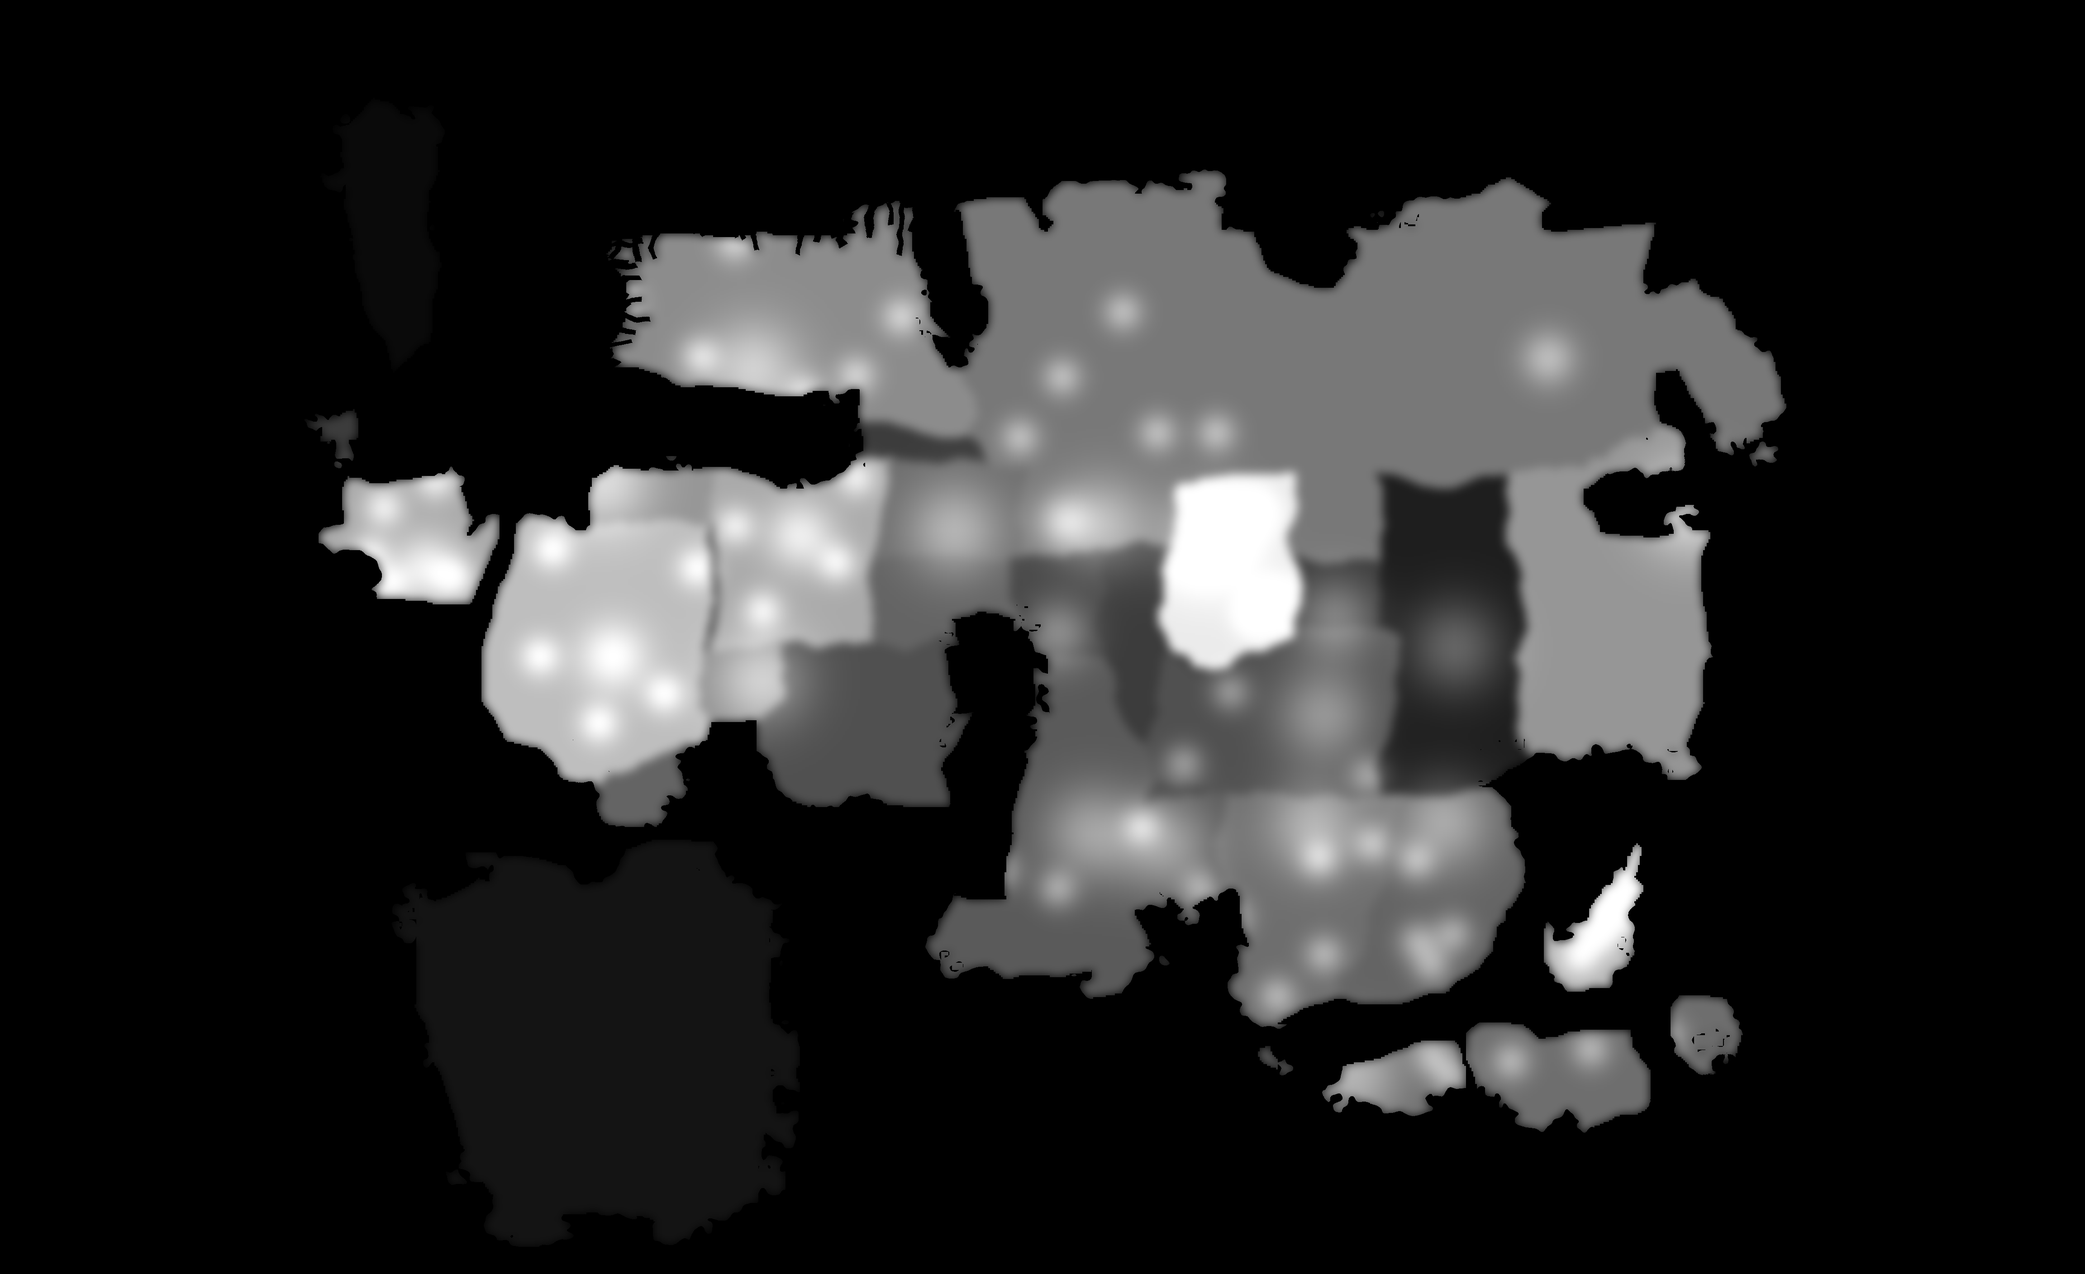
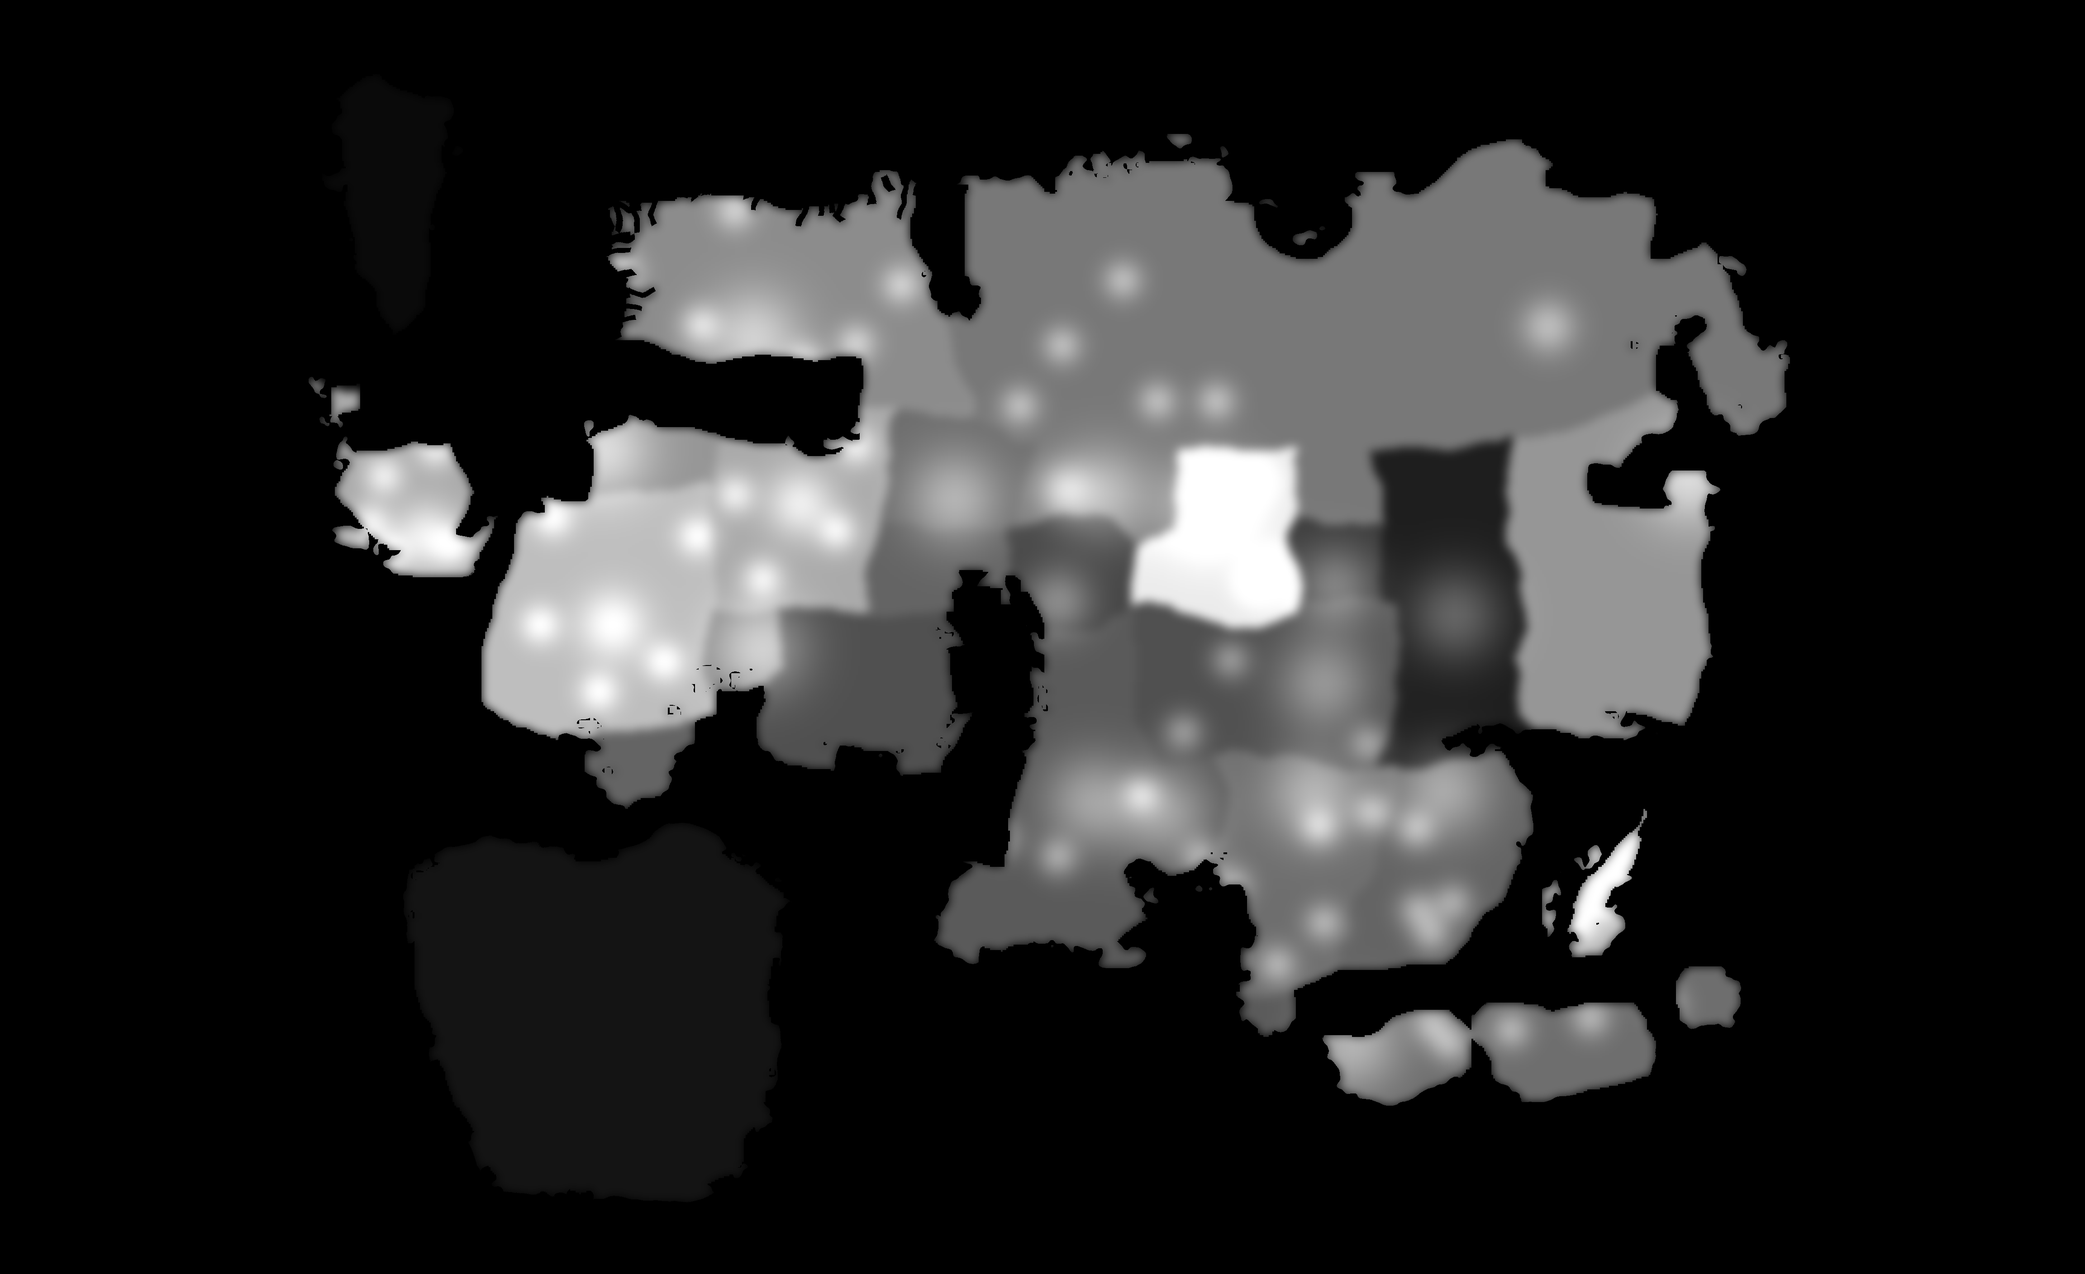
tools: widen straits between Figariya, Travinnaya islands and mainland; shift map up for bottom ocean margin; thicken river lines; rename mod to Ktits; add tab quick guide

Changed region(s): [[0.1562, 0.0938, 0.875, 0.9062], [0.7188, 0.2188, 0.75, 0.3125], [0.4688, 0.5312, 0.5, 0.5625]]

diff --git a/tools/export_rp_inputs.py b/tools/export_rp_inputs.py
@@ -1,4 +1,4 @@
-"""Картинки для загрузки в RandomParadox (Ktits-Mod 0.1.0), по этапам.
+"""Картинки для загрузки в RandomParadox (Ktits 0.1.0), по этапам.
 
 Запуск из корня репозитория: python tools/export_rp_inputs.py [этап]
 Выход: no_commit/temp/rp_input/stage_NN/*.png (4352x2816, RGB).
@@ -15,7 +15,7 @@ OUT = os.path.join(ROOT, "no_commit", "temp", "rp_input")
 W, H = 4608, 2816                                   # холст с полем океана вокруг суши
 LAND_K = 0.76                                        # суша занимает 76 % прежнего масштаба
 SX, SY = 4352 / 1600 * LAND_K, 2816 / 1040 * LAND_K
-OX, OY = (W - 1600 * SX) / 2, (H - 1040 * SY) / 2
+OX, OY = (W - 1600 * SX) / 2, (H - 1040 * SY) / 2 - 70   # сдвиг вверх: нижнее поле океана >= 130 px (вылет RandomParadox на Mapping Regions)
 KM2_PER_U2 = 97.0
 rng = np.random.default_rng(1936)
 svg = open(os.path.join(ROOT, "docs", "03-Map-Sketch.svg"), encoding="utf-8").read()
@@ -65,10 +65,12 @@ for m in re.finditer(r"<polygon([^>]*)points=\"([^\"]+)\"([^>]*)/>", svg):
         continue
     if 'class="c' in attrs or 'fill="#dedacb"' in attrs or 'stroke-dasharray="6 3"' in attrs:
         land_polys.append(parse(m.group(2)))
+TRV_ISL = []
 for g in re.findall(r"<g class=\"c inf\"[^>]*>(.*?)</g>", svg, re.S):          # острова Травинной Федерации
     for k, s in enumerate(re.findall(r"points=\"([^\"]+)\"", g)):
         dx = (0, 20, 45)[k] if k < 3 else 45
         land_polys.append([(x + dx, y + 30) for x, y in parse(s)])      # острова южнее и с большими промежутками
+        TRV_ISL.append([(x + dx, y + 30) for x, y in parse(s)])
 seas = [parse(s) for s in re.findall(r'<polygon class="sea" points="([^"]+)"', svg)]
 ell = re.search(r'<ellipse class="sea" cx="([\d.]+)" cy="([\d.]+)" rx="([\d.]+)" ry="([\d.]+)"', svg)
 mount_polys = [parse(re.search(r'<polygon fill="url\(#mount\)"[^>]*points="([^"]+)"', svg).group(1))]
@@ -236,6 +238,21 @@ def erode(m, r):
     return np.asarray(small.resize((W, H), Image.NEAREST)) > 127
 
 
+def dilate(m, r):
+    """Дилатация булевой маски на r пикселей (на 1/4 разрешения)."""
+    k = max(1, r // 4)
+    small = Image.fromarray(m.astype(np.uint8) * 255).resize((W // 4, H // 4), Image.NEAREST)
+    small = small.filter(ImageFilter.MaxFilter(2 * k + 1))
+    return np.asarray(small.resize((W, H), Image.NEAREST)) > 127
+
+
+def widen_gap(land, a, b, add):
+    """Раздвигает сушу a и b: у каждой срезается полоса add/2 вдоль другой (проливы не должны слипаться в программе)."""
+    h = add // 2
+    land &= ~((dilate(a, h) & b) | (dilate(b, h) & a))
+    return land
+
+
 def warp(im):
     return np.asarray(im)[SYI, SXI] > 127
 
@@ -280,6 +297,12 @@ def stage1():
                         land[cy * 8:cy * 8 + 8, cx * 8:cx * 8 + 8] = True
     land |= erode(warp(mask(poly_mask([JAPAN, CEYLON, LEDYSHKA, SPAIN]))), 8)          # острова из docs/08 не исчезают при размытии
     land &= ~lake
+    fig_m = warp(mask(poly_mask([SOUTH])))                                       # Фигария отделена от материка проливом >= ~60 px
+    land &= ~(dilate(fig_m, 56) & ~fig_m)                                        # у Фигарии вокруг контура полоса воды в 56 px
+    isl = [warp(mask(poly_mask([q]))) for q in TRV_ISL]                           # острова Травинной Федерации: промежутки >= ~100 px
+    for i in range(len(isl)):
+        for j in range(i + 1, len(isl)):
+            land = widen_gap(land, isl[i], isl[j], 56)
     land &= ~warp(mask(draw_fjords))                                             # фьорды вырезаем после сглаживания
 
     # --- рельеф
@@ -429,9 +452,8 @@ def stage2():
     lab[jb] = codes["temperatewarm"]                                                                     # восток Фигарии у реки: умеренный
     lab[m1["snow"]] = codes["snow"]
     # земля без метки (кайма из-за смещения границ) берёт ближайшую метку: растим метки на 1/4 разрешения
-    lab[lab == codes["UNL"]] = 0                                             # заглушка UNL не оставляется: остатки суши отходят ближайшей стране
     sm = lab[::4, ::4].copy()
-    for _ in range(300):
+    for _ in range(40):
         for sh, ax in ((1, 0), (-1, 0), (1, 1), (-1, 1)):
             nb = np.roll(sm, sh, axis=ax)
             sm = np.where((sm == 0) & (nb > 0), nb, sm)
@@ -466,6 +488,7 @@ def stage3():
     img = np.zeros((H, W, 3), np.uint8)
     img[:] = RIV["background"]
     n_runs = 0
+    marks = []
     for r in rivers:
         pts = []
         P = px(r)
@@ -497,9 +520,13 @@ def stage3():
                 n = max(abs(xb - xa), abs(yb - ya)) + 1
                 for t in np.linspace(0, 1, n):
                     img[int(round(ya + (yb - ya) * t)), int(round(xa + (xb - xa) * t))] = RIV["river"]
-            img[run[0][1], run[0][0]] = RIV["start"]
-            img[run[-1][1], run[-1][0]] = RIV["end"]
+            marks.append((run[0], run[-1]))
             n_runs += 1
+    blue = np.asarray(Image.fromarray(((img == np.array(RIV["river"])).all(-1)).astype(np.uint8) * 255).filter(ImageFilter.MaxFilter(3))) > 127   # русло 3 px: 1 px теряется при обработке в программе
+    img[blue] = RIV["river"]
+    for (xa, ya), (xb, yb) in marks:
+        img[ya, xa] = RIV["start"]
+        img[yb, xb] = RIV["end"]
     d = os.path.join(OUT, "stage_03")
     os.makedirs(d, exist_ok=True)
     Image.fromarray(img, "RGB").save(os.path.join(d, "rivers.png"))

diff --git a/docs/07-RP-Stages.md b/docs/07-RP-Stages.md
@@ -1,6 +1,6 @@
-# Ktits-Mod 0.1.0: поэтапная загрузка в RandomParadox
+# Ktits 0.1.0: поэтапная загрузка в RandomParadox
 
-Мод: **Ktits-Mod**, версия **0.1.0** (имя в программу вводить без слэша на конце).
+Мод: **Ktits**, версия **0.1.0** (имя в программу вводить без слэша на конце).
 Общая инструкция по программе и путям: `06-RandomParadox-Guide.md`.
 
 Этап заканчивается, когда мод с видимым изменением запускается в игре. Следующий этап начинается после сообщения «этап N готов».
@@ -32,7 +32,7 @@
 | 240 240 240 | peaks | Нагорье Шамбалы |
 
 **Что делать в программе** (подтверждено справкой вкладки Land Input на скриншоте):
-1. Вкладка **Configure**: имя мода `Ktits-Mod`, пути (см. `06`), размер карты 4608 × 2816 [uncertain: где поле размера].
+1. Вкладка **Configure**: имя мода `Ktits`, пути (см. `06`), размер карты 4608 × 2816 [uncertain: где поле размера].
 2. Вкладка **Land Tabs → Land Input**: выбрать режим **Landform**.
 3. **Перетащить `land.png` мышью в окно программы.** Появится список «Currently labeled as…» для найденных цветов.
 4. Все цвета, помеченные UNCLASSIFIED, разметить вручную (кнопка «Select type for …» и тип из таблицы выше). Если у цвета Apply красный, его нужно нажать.
@@ -41,7 +41,7 @@
 7. Остальные вкладки оставить по умолчанию, как в пробном прогоне; **Finalise** → экспорт полного мода.
 
 **Проверка в игре (что должно быть видно):**
-- В лаунчере включить `Ktits-Mod`, остальные моды выключить.
+- В лаунчере включить `Ktits`, остальные моды выключить.
 - Новая игра → любая страна → режим карты «рельеф» (terrain map mode).
 - Форма материка и островов совпадает со схемой `03-Map-Sketch.svg`: длинный залив Синего моря на северо-западе, два больших озера (Каспийская Дырка и маленькое Челябы), острова Бриттана и юго-восточные острова.
 - Узкие горные полосы на местах хребтов; крутые пики в одной точке на востоке (Нагорье Шамбалы).

diff --git a/docs/10-RP-Tabs-Quick.md b/docs/10-RP-Tabs-Quick.md
@@ -1,0 +1,24 @@
+# Краткая инструкция по вкладкам RandomParadox
+
+Файлы лежат в `no_commit/temp/rp_input/` (копии в `tools/rp_input/`). Файл перетаскивается в окно программы, принимает его та вкладка, которая сейчас открыта. Проект не сохраняем и не загружаем: всё в одной сессии (вылет при загрузке, см. `no_commit/rp_notes/`).
+
+Перед началом: запустить `RandomParadox_bigstack.exe`. В логе должны быть пути `C:/Users/catsh/...`, а не `C:/Users/user/...`.
+
+| Вкладка | Что делать | Файл |
+|---|---|---|
+| Configure | Имя мода `Ktits`, пути, Validate | нет |
+| Land Tabs | Land Input, разметить 3 цвета (180;250;180 valley, 220;200;200 mountains, 255;255;255 peaks), Analyse Input, затем Heightmap: Generate from Landform Input. Проверить, что Фигария и острова не слиплись | `stage_01/land.png` |
+| Climate Tabs, Climate Input | Режим «Use Climate Input Map», цвета распознаются сами | `stage_02/climate.png` |
+| Climate Tabs, River | Открыть подвкладку River и перетащить файл. Кнопки Generate не нажимать | `stage_03/rivers.png` |
+| Civilisation | Topography, Development, Population. Culture и Locations загрузить нельзя | `stage_03b/topography.png`, `development.png`, `population.png` |
+| Areas | Provinces и регионы: Generate. Цель около 6 000 провинций суши | нет |
+| Strategic Regions | Generate | нет |
+| Countries | Режим solid. Сначала `countryMappings.txt`, затем `countries.png`. Затем Generate state data, Generate country data | `stage_04/countryMappings.txt`, `stage_04/countries.png` |
+| Finalise | Export Complete mod | нет |
+
+Проверки:
+- файл принят: нет Unclassified (кроме 3 цветов Land) и ошибок в логе;
+- после Areas: в логе нет «Invalid weighted center», программа не вылетела;
+- после экспорта: папка `...\mod\Ktits` обновилась, в `history\countries` есть CSL, SVS, BRT, FIG, LED.
+
+Названия вкладок и кнопок взяты из скриншотов и справки [uncertain].

diff --git a/docs/06-RandomParadox-Guide.md b/docs/06-RandomParadox-Guide.md
@@ -1,6 +1,6 @@
 # Инструкция: сборка карты через RandomParadox
 
-Мод: **Ktits-Mod**, версия **0.1.0**. Имя мода вводить в программе без слэша на конце: с `/` программа записала неверный `name` и не создала файл `.mod` в папке `mod`.
+Мод: **Ktits**, версия **0.1.0**. Имя мода вводить в программе без слэша на конце: с `/` программа записала неверный `name` и не создала файл `.mod` в папке `mod`.
 
 Генератор: https://github.com/panik4/RandomParadox (только Windows). Конспект видео-туториала: `05-Video-RandomParadox-Notes.md`.
 
@@ -37,7 +37,7 @@
 
 Цель: понять, совместима ли программа с игрой 1.19.4.1.
 
-1. Задать имя мода (для рабочего мода — `Ktits-Mod`; для пробных прогонов можно любое).
+1. Задать имя мода (для рабочего мода — `Ktits`; для пробных прогонов можно любое).
 2. Указать путь к игре и путь к папке модов (таблица выше), нажать Validate (в видео сработало со второго раза).
 3. Включить полную случайную генерацию (кнопка «сгенерировать весь мир»), задать seed.
 4. Finalize → Export complete mod. Программу не закрывать до проверки мода.

diff --git a/CLAUDE.md b/CLAUDE.md
@@ -1,7 +1,7 @@
 # CLAUDE.md
 
 Мод для Hearts of Iron IV «Казуальность»: полная замена мира (свой материк, страны, идеологии, механики).
-Название мода: Ktits-Mod, версия 0.1.0 (в программу вводить имя без слэша на конце).
+Название мода: Ktits, версия 0.1.0 (в программу вводить имя без слэша на конце).
 Целевая версия игры: Operation Postern v1.19.4.1.99a5 (f584).
 
 ## Документы (`docs/`)
